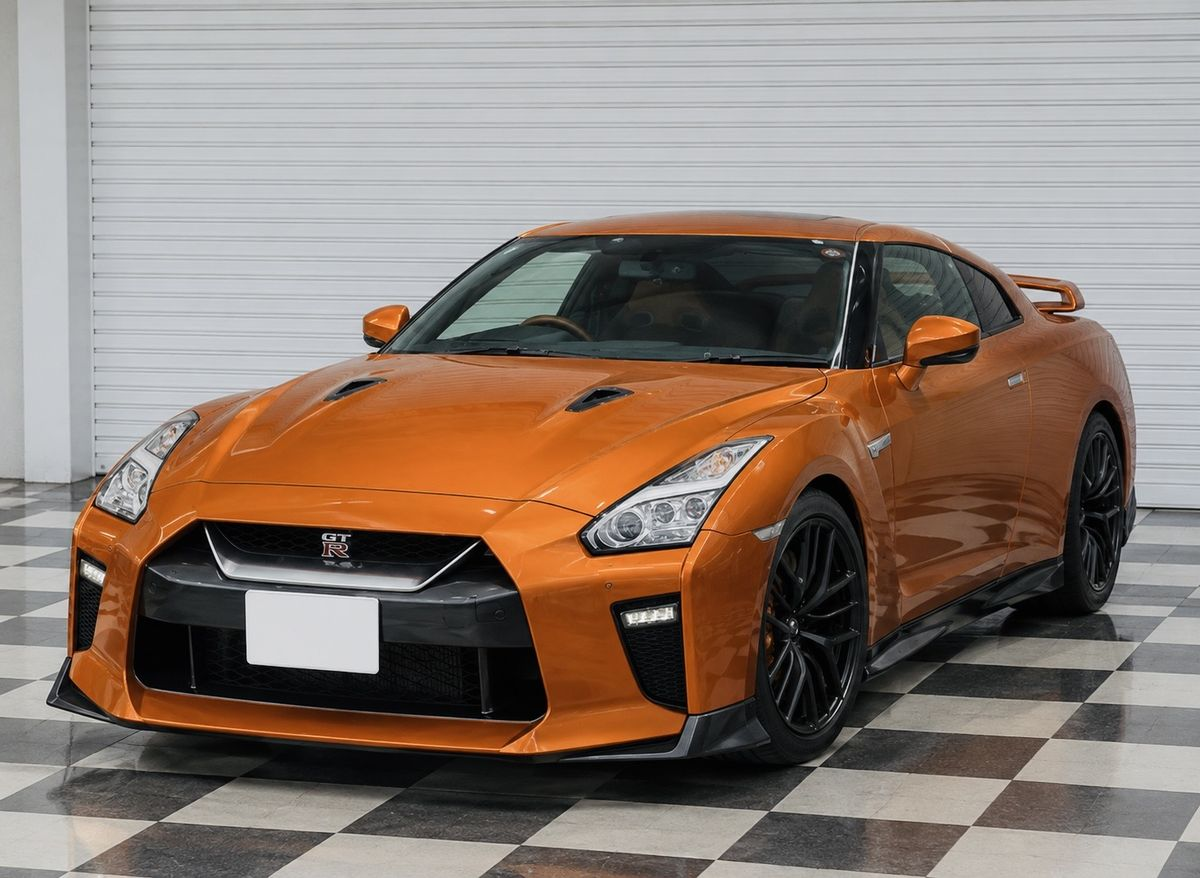
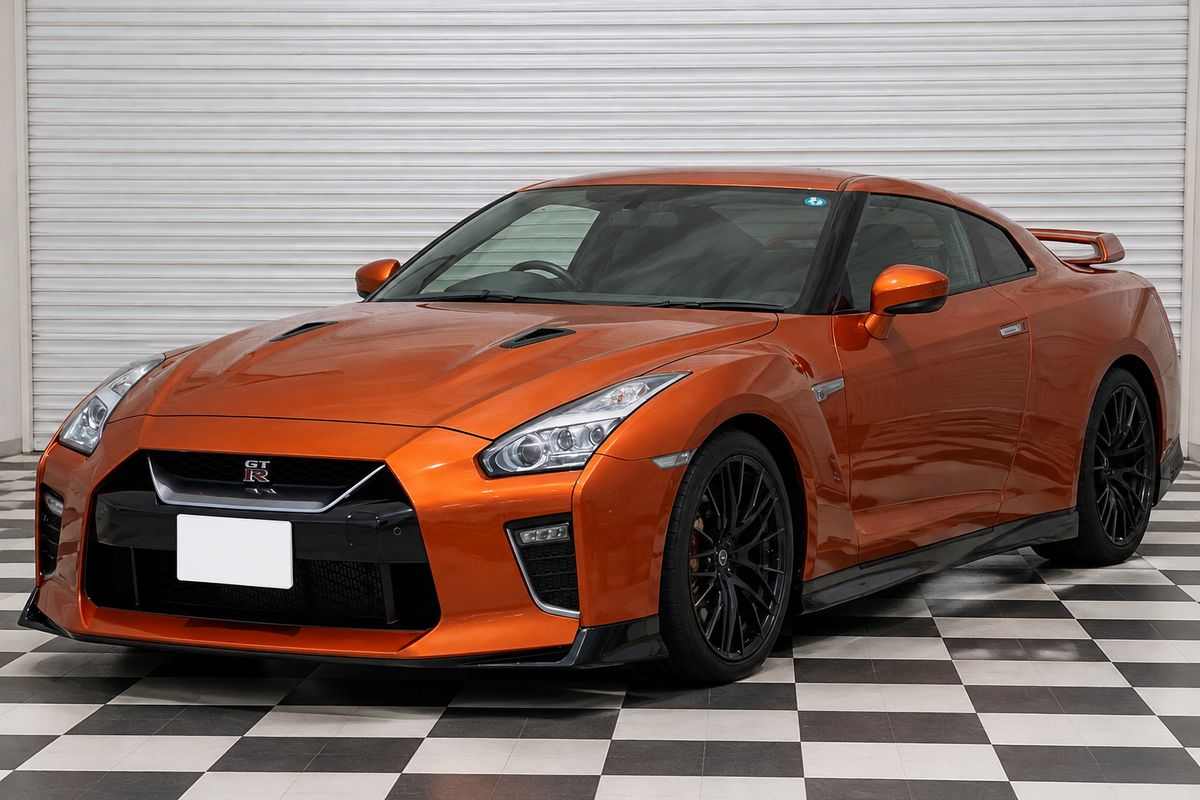
landing: ヒーロー画像を新しいGT-R画像に差し替え

diff --git a/components/landing-page.tsx b/components/landing-page.tsx
@@ -69,7 +69,7 @@ export function LandingPage() {
               priority
               sizes="(min-width: 1152px) 1100px, 100vw"
               className="object-cover"
-              style={{ objectPosition: "50% 66%" }}
+              style={{ objectPosition: "50% 70%" }}
             />
           </div>
         </div>
